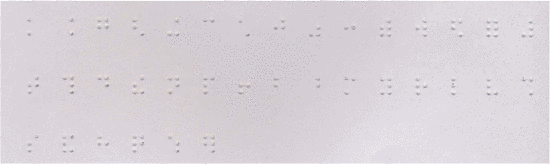
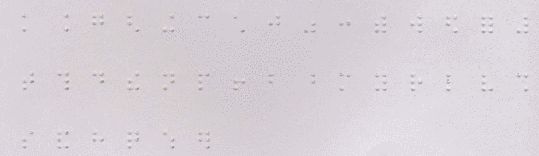
Tentei melhorar a remocao de regioes indesejadas

diff --git a/prog.py b/prog.py
@@ -1,6 +1,10 @@
 import imageio
 import numpy as np
 import matplotlib.pyplot as plt
+import scipy
+from scipy import ndimage
+import sys
+import cv2
 
 # normalizes image pixels between 0 and 255
 def normalize(img):
@@ -52,6 +56,8 @@ matrix = np.array(image, copy=True, dtype=np.float)
 
 N, M, _ = matrix.shape
 
+sys.setrecursionlimit(10 * N * M)
+
 # Transform RGB to gray scale
 for i in range(N):
 	for j in range(M):
@@ -84,9 +90,13 @@ for i in range(N):
 #	To describe our pattern, we can calculate the mean of the histograms, using centrality as a weight
 #	The size of the regions can be used to already discard some regions beforehand (this can be applied optionally) 
 #
-#
-#
-#
+
+# Erode the regions to calculate circles
+dots_matrix = ndimage.binary_erosion(dots_matrix)
+
+# Plot segmented image
+mat = dots_matrix.astype(np.uint8)
+printImage2(mat)
 
 def pointsInComponent(i, j, pts):
 	vis[i, j] = 1
@@ -97,6 +107,7 @@ def pointsInComponent(i, j, pts):
 	if j - 1 >=0 and vis[i, j-1] == 0 and dots_matrix[i, j-1] == 1: pointsInComponent(i, j-1, pts)
 
 vis = np.zeros((N, M))
+
 # Retrieve components (white regions) and its pixels
 comp = []
 for i in range(N):
@@ -105,14 +116,67 @@ for i in range(N):
 			comp.append([])
 			pointsInComponent(i, j, comp[-1])
 
-
 # Calculate histograms of each region using list comprehension
 histograms = [
 	np.histogram(np.array([matrix[x] for x in pts]), bins=256, range=(0, 255))[0] 
 	for pts in comp
 ]
 
+# histogram description of braille circle, it is calculated as weighted mean of the histograms of white regions, in which the weight is it's centrality
+desc = []
+for c in range(256):
+	desc.append(0)
+	sum = 0 # sums of weights
+	for i in range(len(comp)):
+		if len(comp[i]) > 25: continue
+		p, q = comp[i][0]
+		w = np.min([(p+1), (N - p+1), (q+1), (M - q + 1)]) # weight of the region, its centrality
+		sum += w
+		desc[c] += w * histograms[i][c]
+	desc[c] /= sum
 
+# Flood fill algorithm to paint unwanted white regions
+def paintBlack(i, j):
+	dots_matrix[i, j] = 0
+	if i + 1 < N and dots_matrix[i+1, j] == 1: paintBlack(i+1, j)
+	if i - 1 >=0 and dots_matrix[i-1, j] == 1: paintBlack(i-1, j)
+	if j + 1 < M and dots_matrix[i, j+1] == 1: paintBlack(i, j+1)
+	if j - 1 >=0 and dots_matrix[i, j-1] == 1: paintBlack(i, j-1)
+
+# CV histogram correlation function
+def compare(a, b):
+	return cv2.compareHist(np.array(a).astype('float32'), np.array(b).astype('float32'), cv2.HISTCMP_CORREL)
+
+# Euclidean distance comparison function
+def euclideanDistance(a, b):
+	return (np.sum((np.array(a) - np.array(b))**2)/256)**(1/2)
+
+errors = []
+for i in range(len(histograms)):
+	errors.append(compare(desc, histograms[i]))
+	if compare(desc, histograms[i]) < 0.05: #if correlation between the two histograms is less than 0.05, paint it black
+		paintBlack(comp[i][0][0], comp[i][0][1])
+
+# This part will calculate the average radius
+radius = 0.0 
+for i in range(len(comp)):
+	lo = N
+	for pt in comp[i]: lo = min(lo, pt[0])
+	hi = 0
+	for pt in comp[i]: hi = max(hi, pt[0])
+
+	v = hi - lo + 1
+	print(hi - lo)
+	lo = M
+	for pt in comp[i]: lo = min(lo, pt[1])
+	hi = 0
+	for pt in comp[i]: hi = max(hi, pt[1])
+
+	v = max(v, hi - lo + 1)
+	radius += v
+
+radius /= len(comp)
+print(radius)
 
 # Plot segmented image
 mat = dots_matrix.astype(np.uint8)
